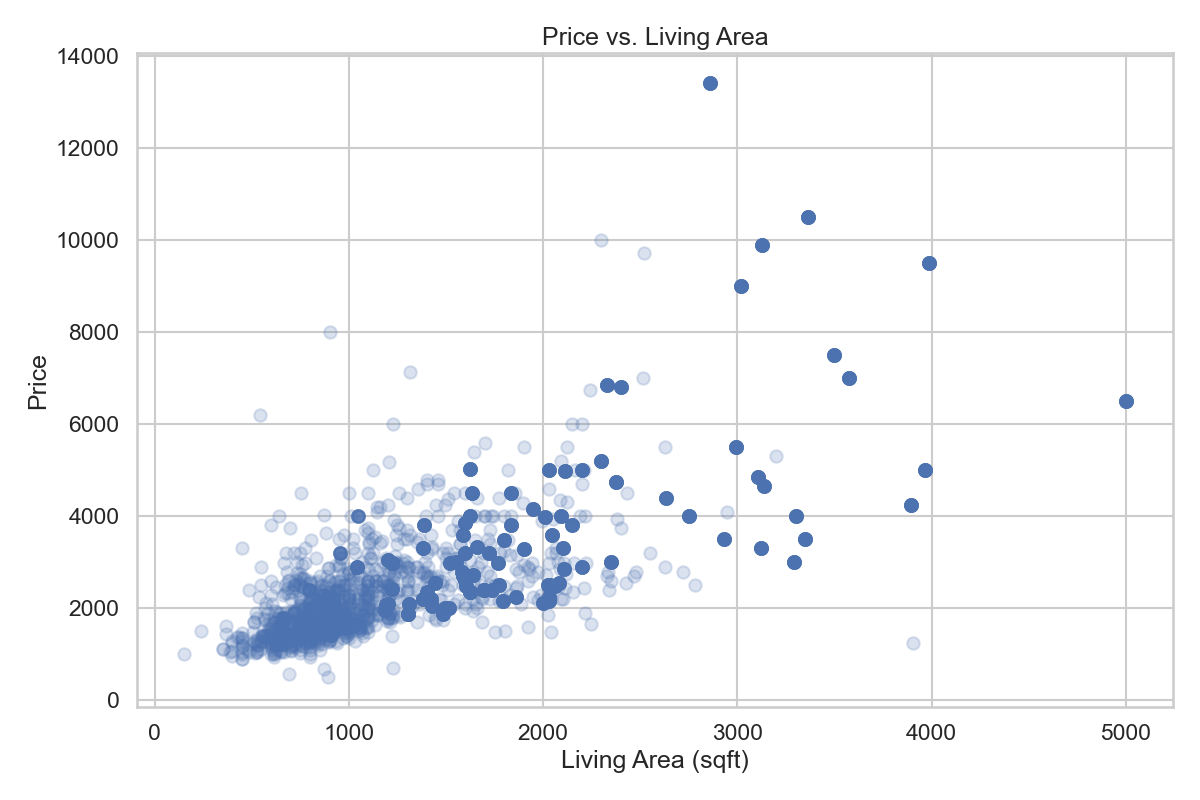
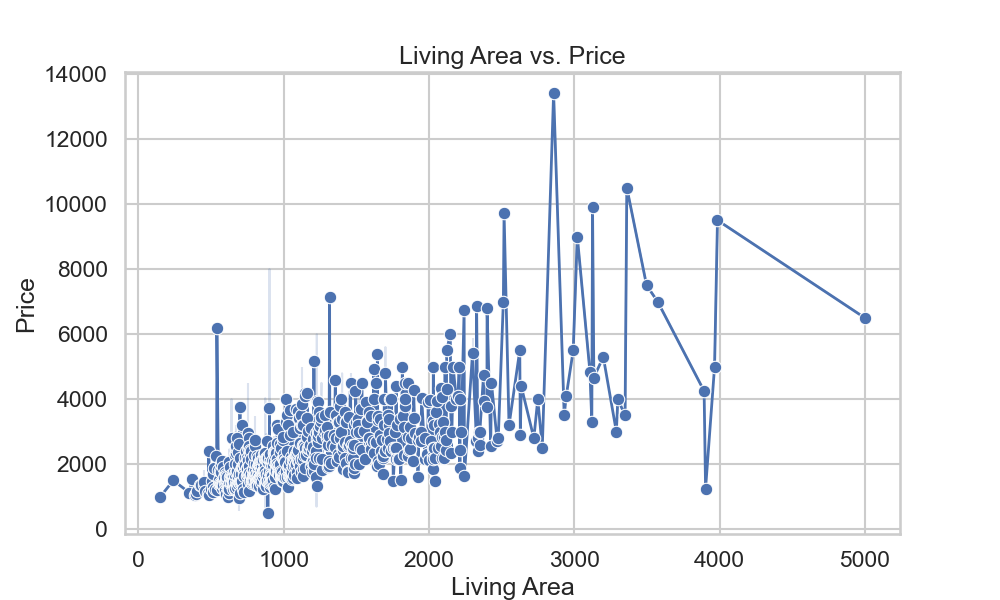
Fixed issue-91

Changed region(s): [[0.0, 0.03, 0.992, 1.0], [0.899, 0.27, 0.961, 0.33], [0.651, 0.27, 0.682, 0.3]]

diff --git a/Code/analysis/analysis.py b/Code/analysis/analysis.py
@@ -26,7 +26,7 @@ plt.xlabel('Rent Amount')
 plt.ylabel('Frequency')
 plt.title('Rent Distribution Histogram')
 plt.savefig(f'{image_path}/Rent_Distribution.png')
-plt.show()
+
 
 plt.figure(figsize=(10, 6))
 sns.scatterplot(x='Bedrooms', y='Price', data=df)
@@ -35,7 +35,7 @@ plt.ylabel('Rent Price ($)')
 plt.title('Impact of # of Rooms on Rent')
 plt.xticks(range(1, 5))
 plt.savefig(f'{image_path}/Impact_of_Rooms_numbers_on_Rent.png')
-plt.show()
+
 
 correlation = df['Bedrooms'].corr(df['Price'])
 print(f'Correlation between Number of Rooms and Rent Price: {correlation}')
@@ -51,7 +51,7 @@ plt.ylabel('Average Rent ($)')
 plt.xticks(rotation=0)
 plt.grid(axis='y')
 plt.savefig(f'{image_path}/Average_Rent_by_Number_of_Rooms.png')
-plt.show()
+
 
 plt.figure(figsize=(10, 6))
 sns.scatterplot(data=df,
@@ -64,7 +64,6 @@ plt.ylabel('Rental Rate')
 plt.title('Scatterplot of Distance vs. Rental Rate')
 plt.legend(title=' # of Bedrooms')
 plt.savefig(f'{image_path}/Scatterplot_Distance_vs._Rental_Rates.png')
-plt.show()
 
 
 from sklearn.linear_model import LinearRegression
@@ -90,7 +89,7 @@ plt.ylabel('Rental Rate')
 plt.title('Linear Regression: Distance vs. Rental Rate')
 plt.legend()
 plt.savefig(f'{image_path}/Linear_Regression_Distance_vs._Rental_Rate.png')
-plt.show()
+
 
 r2 = r2_score(y, y_predict)
 print(f'R-squared for distance: {r2}')
@@ -132,7 +131,6 @@ plt.ylabel('Average Price')
 plt.title(f'Top {top_n} Most Expensive Zip Codes')
 plt.xticks(top_zipcodes, rotation=45)
 plt.savefig(f'{image_path}/Top_{top_n}_Most_Expensive_Zip_Codes.png')
-plt.show()
 
 
 X2 = df['LivingArea'].values.reshape(-1, 1)
@@ -154,7 +152,7 @@ plt.ylabel('Rent')
 plt.title('Impact of Living Area on Rent')
 plt.legend()
 plt.savefig(f'{image_path}/Impact_of_Living_Area_on_Rent.png')
-plt.show()
+
 
 r2__ = r2_score(y2, y_predicted)
 print(f'R-squared for living area: {r2__}')
@@ -168,14 +166,12 @@ print(f'Correlation Coefficient: {correlation_coefficient}')
 print('-------------------------------------------------------------')
 
 
-
 price = df['Price']
 living_area = df['LivingArea']
 distance = df['Distance to the university (in miles)']
 bathroom = df['Bathrooms']
 bedroom = df['Bedrooms']
 zip_code = df['Zip']
-
 
 sns.set(style='whitegrid')
 sns.set_context('talk')
@@ -257,5 +253,43 @@ summary_zip = filtered_data.groupby("Zip")["Price"].describe()
 
 print("\nSummary Statistics for Price based on Zip Code (with at least {} listings):".format(min_listings))
 print(summary_zip)
+
+
+df.iloc[:, 3] = sorted(df.iloc[:, 3])
+
+sns.set(style='whitegrid')
+sns.set_context('talk')
+
+plt.figure(figsize=(10, 6))
+sns.lineplot(x=living_area, y=price, marker='o', color='b', linewidth=2)
+plt.title('Living Area vs. Price')
+plt.xlabel('Living Area')
+plt.ylabel('Price')
+
+plt.savefig('images/Price_Area.png')
+
+plt.figure(figsize=(10, 6))
+sns.lineplot(x=bathroom, y=price, marker='o', color='b', linewidth=2)
+plt.title('Bathroom vs. Price')
+plt.xticks(range(1, 5))
+plt.xlabel('Bathrooms')
+plt.ylabel('Price')
+plt.savefig('images/Price_Bathrooms.png')
+
+plt.figure(figsize=(10, 6))
+sns.lineplot(x=bedroom, y=price, marker='o', color='b', linewidth=2)
+plt.title('Bedroom vs. Price')
+plt.xticks(range(1, 5))
+plt.xlabel('Bedrooms')
+plt.ylabel('Price')
+plt.savefig('images/Price_Bedrooms.png')
+
+
+plt.figure(figsize=(10, 6))
+sns.lineplot(x=zip_code, y=price, marker='o', color='b', linewidth=2)
+plt.title('Zip_Code vs. Price')
+plt.xlabel('Zip Code')
+plt.ylabel('Price')
+plt.savefig('images/Price_Zip.png')
 
 print('All figures are saved in the images folder')
